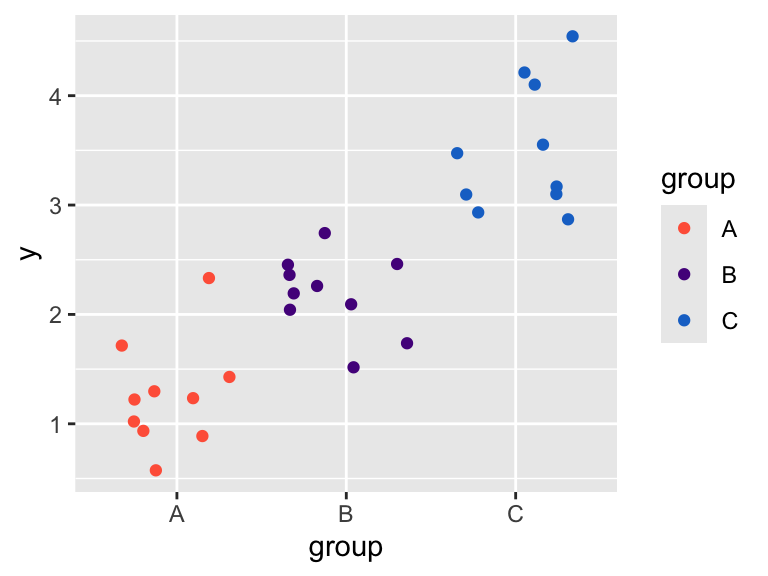
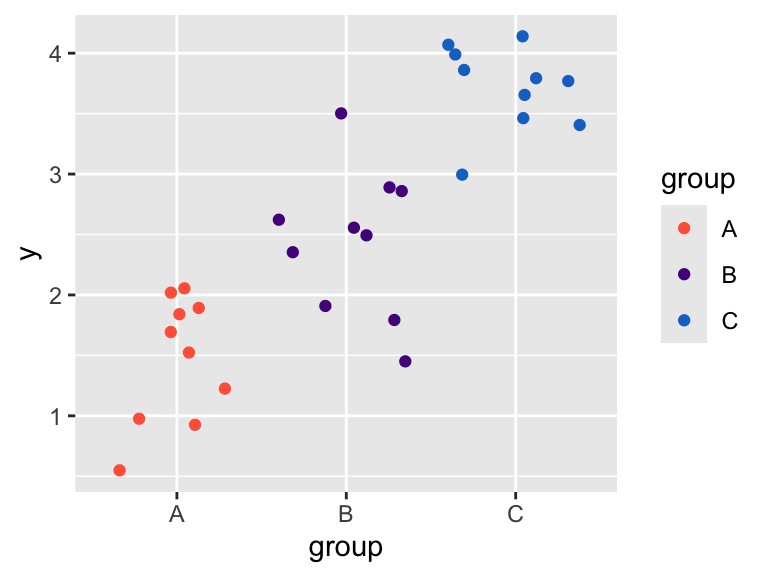
anova pau

diff --git a/docs/lectures/12-anova-slides.html b/docs/lectures/12-anova-slides.html
@@ -540,9 +540,9 @@ F = \frac{MS_{group}}{MS_{error}}
 <span id="cb13-7"><a href=""></a><span class="fu">head</span>(dat_groups, <span class="at">n =</span> <span class="dv">3</span>)</span></code><button title="Copy to Clipboard" class="code-copy-button"><i class="bi"></i></button></pre></div>
 <div class="cell-output cell-output-stdout">
 <pre><code>  group         y
-1     A 1.2218022
-2     A 0.9340506
-3     A 1.0216734</code></pre>
+1     A 0.9281438
+2     A 2.0525816
+3     A 1.8934747</code></pre>
 </div>
 </div>
 </section>
@@ -584,8 +584,8 @@ F = \frac{MS_{group}}{MS_{error}}
 
 Response: y
           Df Sum Sq Mean Sq F value    Pr(&gt;F)    
-group      2 25.349 12.6744  53.105 4.387e-10 ***
-Residuals 27  6.444  0.2387                      
+group      2 25.345 12.6723  50.391 7.693e-10 ***
+Residuals 27  6.790  0.2515                      
 ---
 Signif. codes:  0 '***' 0.001 '**' 0.01 '*' 0.05 '.' 0.1 ' ' 1</code></pre>
 </div>
@@ -679,9 +679,9 @@ Fit: aov(formula = mod_group)
 
 $group
          diff       lwr      upr     p adj
-B-A 0.9207382 0.3790361 1.462440 0.0007109
-C-A 2.2398370 1.6981348 2.781539 0.0000000
-C-B 1.3190988 0.7773967 1.860801 0.0000056</code></pre>
+B-A 0.9728723 0.4168185 1.528926 0.0005128
+C-A 2.2447992 1.6887454 2.800853 0.0000000
+C-B 1.2719269 0.7158731 1.827981 0.0000147</code></pre>
 </div>
 </div>
 </section>
@@ -704,11 +704,96 @@ C-B 1.3190988 0.7773967 1.860801 0.0000056</code></pre>
 <ol type="1">
 <li>What is a multi-factor ANOVA, when do you use it, and how?</li>
 </ol>
-</section></section>
-<section>
-<section id="to-the-board-1" class="title-slide slide level1 center">
-<h1>To the board…</h1>
-
+</section>
+<section id="a-motivating-hypothetical-example" class="slide level2">
+<h2>A motivating (hypothetical) example</h2>
+<p><strong>fish biomass responding to restoration efforts in high and low impact areas</strong></p>
+<ul>
+<li class="fragment">Restoration was carried out at some sites along a coast</li>
+<li class="fragment">Similar sites were left alone as controls</li>
+<li class="fragment">Restoration and control sites were situated in areas of low and high human impact</li>
+</ul>
+<div class="fragment">
+<p><span class="alert">Question</span>: does restoration increase fish biomass, and does it work as well where human impact is high as where it is low?</p>
+</div>
+</section>
+<section id="a-motivating-hypothetical-example-sampling-sites" class="slide level2">
+<h2>A motivating (hypothetical) example: sampling sites</h2>
+<div class="cell" data-layout-align="center">
+<div class="cell-output-display">
+<div class="quarto-figure quarto-figure-center">
+<figure>
+<p><img data-src="12-anova-slides_files/figure-revealjs/unnamed-chunk-24-1.png" class="quarto-figure quarto-figure-center" style="width:8.5in"></p>
+</figure>
+</div>
+</div>
+</div>
+<p><em>A cartoon map, not real locations: 15 sites for each combination of restoration and human impact</em></p>
+</section>
+<section id="two-explanatory-variables" class="slide level2">
+<h2>Two explanatory variables</h2>
+<div class="no-bold-header">
+<table class="caption-top">
+<thead>
+<tr class="header">
+<th style="text-align: left;"></th>
+<th style="text-align: center;">Low impact</th>
+<th style="text-align: center;">High impact</th>
+</tr>
+</thead>
+<tbody>
+<tr class="odd">
+<td style="text-align: left;"><strong>Restored</strong></td>
+<td style="text-align: center;">15 sites</td>
+<td style="text-align: center;">15 sites</td>
+</tr>
+<tr class="even">
+<td style="text-align: left;"><strong>Control</strong></td>
+<td style="text-align: center;">15 sites</td>
+<td style="text-align: center;">15 sites</td>
+</tr>
+</tbody>
+</table>
+</div>
+<ul>
+<li class="fragment"><span class="alert">Response</span>: fish biomass</li>
+<li class="fragment"><span class="alert">Explanatory variables</span>: restoration (restored or control) and human impact (low or high)</li>
+</ul>
+<div class="fragment">
+<p>Every combination of the two factors (explanatory variables) is sampled</p>
+</div>
+</section>
+<section id="multi-factor-anova-a-question-for-each-factor" class="slide level2">
+<h2>Multi-factor ANOVA: a question for each factor</h2>
+<ul>
+<li class="fragment">Restoration: <span class="math inline">\(H_0\)</span>: <span class="math inline">\(\mu_{restored} = \mu_{control}\)</span></li>
+<li class="fragment">Human impact: <span class="math inline">\(H_0\)</span>: <span class="math inline">\(\mu_{low} = \mu_{high}\)</span></li>
+</ul>
+<div class="fragment">
+<p>Each factor is compared across the levels of the other factor, and gets its own <span class="math inline">\(F\)</span>-test</p>
+<p><span class="math display">\[
+F = \frac{MS_{factor}}{MS_{error}}
+\]</span></p>
+</div>
+<div class="fragment">
+<p>A third question: does the effect of restoration <span class="alert">depend on</span> human impact? We’ll get to this <span class="alert">interaction</span> soon</p>
+</div>
+</section>
+<section id="partitioning-variation-with-two-factors" class="slide level2">
+<h2>Partitioning variation with two factors</h2>
+<p><span class="math display">\[
+SS_Y = SS_{impact} + SS_{restoration} + SS_{error}
+\]</span></p>
+<ul>
+<li class="fragment">Each factor’s sum of squares measures how far its group means are from the overall mean, <span class="math inline">\(\overline{Y}\)</span></li>
+<li class="fragment"><span class="math inline">\(SS_{error}\)</span> is the variation left over within each combination of the factors</li>
+</ul>
+<div class="fragment">
+<p>With an interaction there is one more piece</p>
+<p><span class="math display">\[
+SS_Y = SS_{impact} + SS_{restoration} + SS_{impact \times restoration} + SS_{error}
+\]</span></p>
+</div>
 </section>
 <section id="example-multi-factor-anova-in-r" class="slide level2">
 <h2>Example multi-factor ANOVA in <em>R</em></h2>
@@ -758,7 +843,7 @@ C-B 1.3190988 0.7773967 1.860801 0.0000056</code></pre>
 <div class="cell-output-display">
 <div class="quarto-figure quarto-figure-center">
 <figure>
-<p><img data-src="12-anova-slides_files/figure-revealjs/unnamed-chunk-27-1.png" class="quarto-figure quarto-figure-center" style="width:5in"></p>
+<p><img data-src="12-anova-slides_files/figure-revealjs/unnamed-chunk-28-1.png" class="quarto-figure quarto-figure-center" style="width:5in"></p>
 </figure>
 </div>
 </div>
@@ -817,7 +902,7 @@ F-statistic: 58.32 on 2 and 57 DF,  p-value: 1.632e-14</code></pre>
 <div class="cell-output-display">
 <div class="quarto-figure quarto-figure-center">
 <figure>
-<p><img data-src="12-anova-slides_files/figure-revealjs/unnamed-chunk-30-1.png" class="quarto-figure quarto-figure-center" style="width:5in"></p>
+<p><img data-src="12-anova-slides_files/figure-revealjs/unnamed-chunk-31-1.png" class="quarto-figure quarto-figure-center" style="width:5in"></p>
 </figure>
 </div>
 </div>
